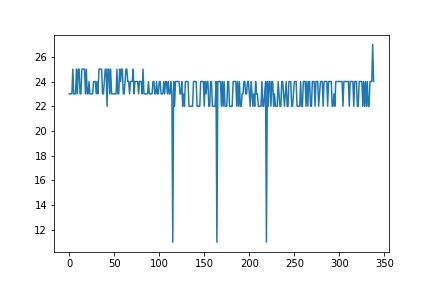
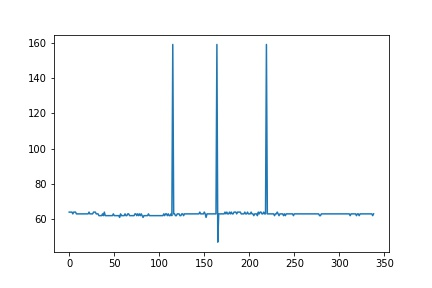
Minor Mods Made

diff --git a/parametrizing.py b/parametrizing.py
@@ -27,6 +27,6 @@ data["Threshold on two"] = data.iloc[:,1].apply(lambda x:1 if (x<=max_val_two an
 plt.plot(data.iloc[:,1])
 plt.savefig('foo.jpeg')
 plt.close()
-plt.plot(data.iloc[:,1])
+plt.plot(data.iloc[:,2])
 plt.savefig('bar.jpeg')
 plt.close()
